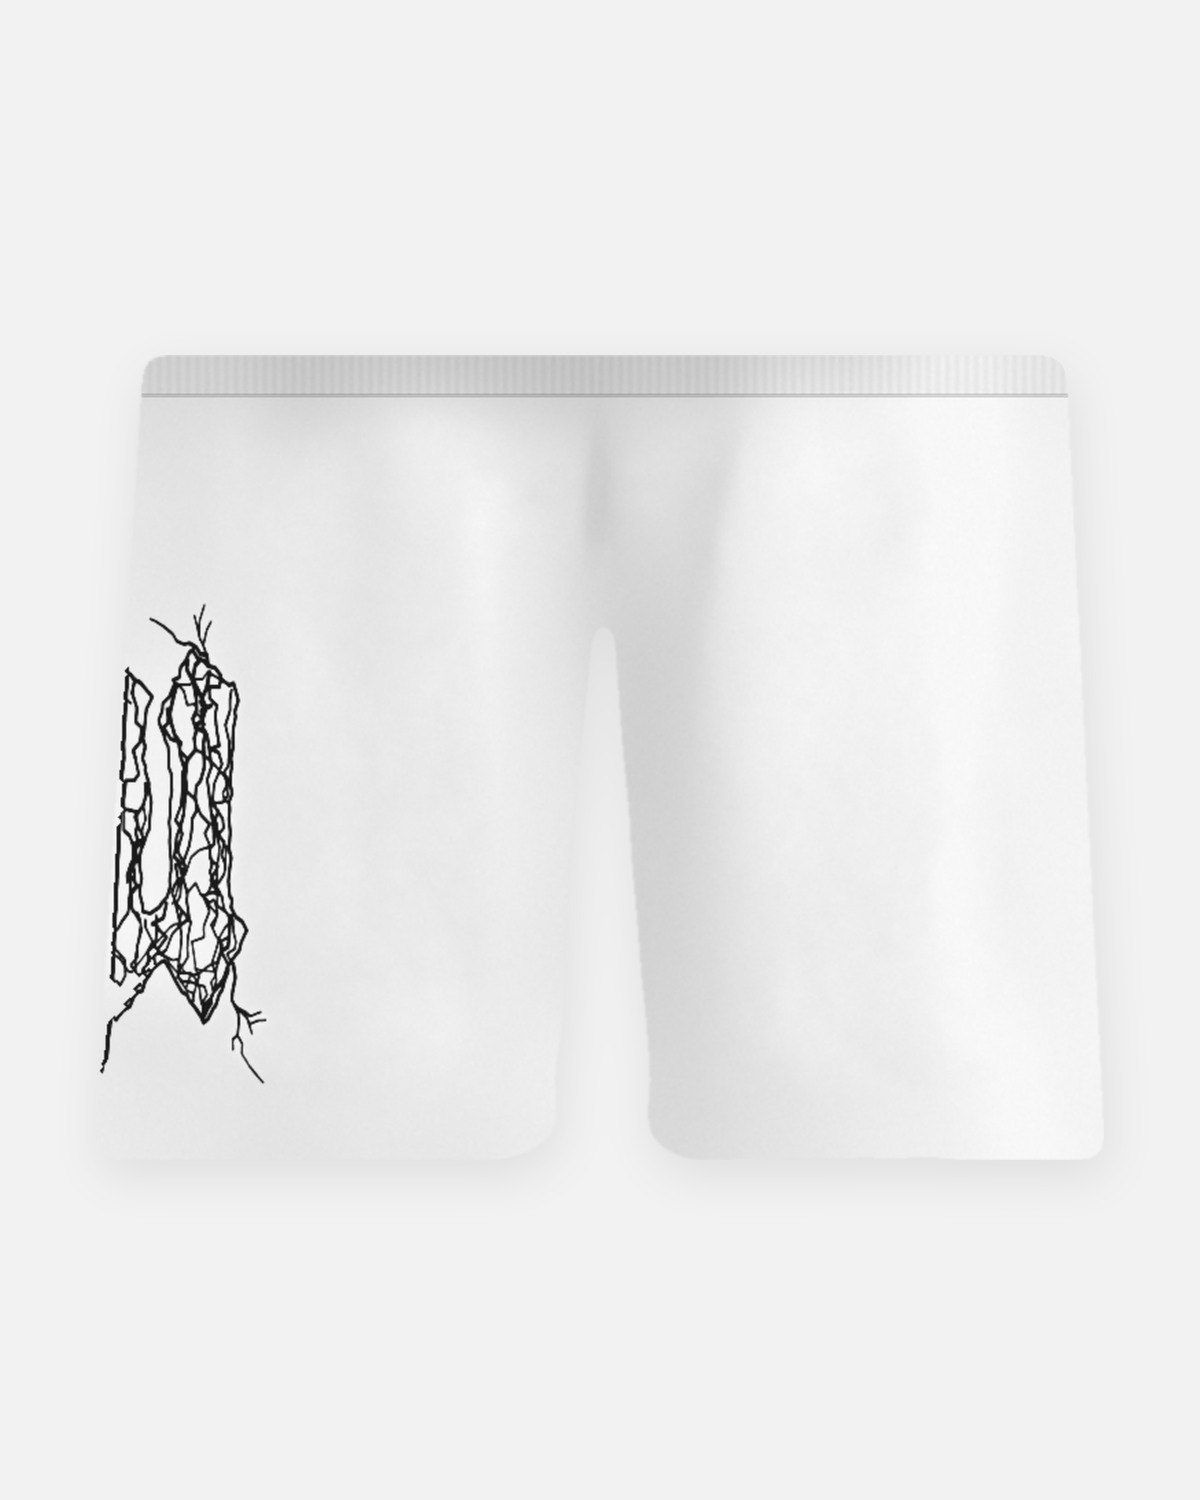
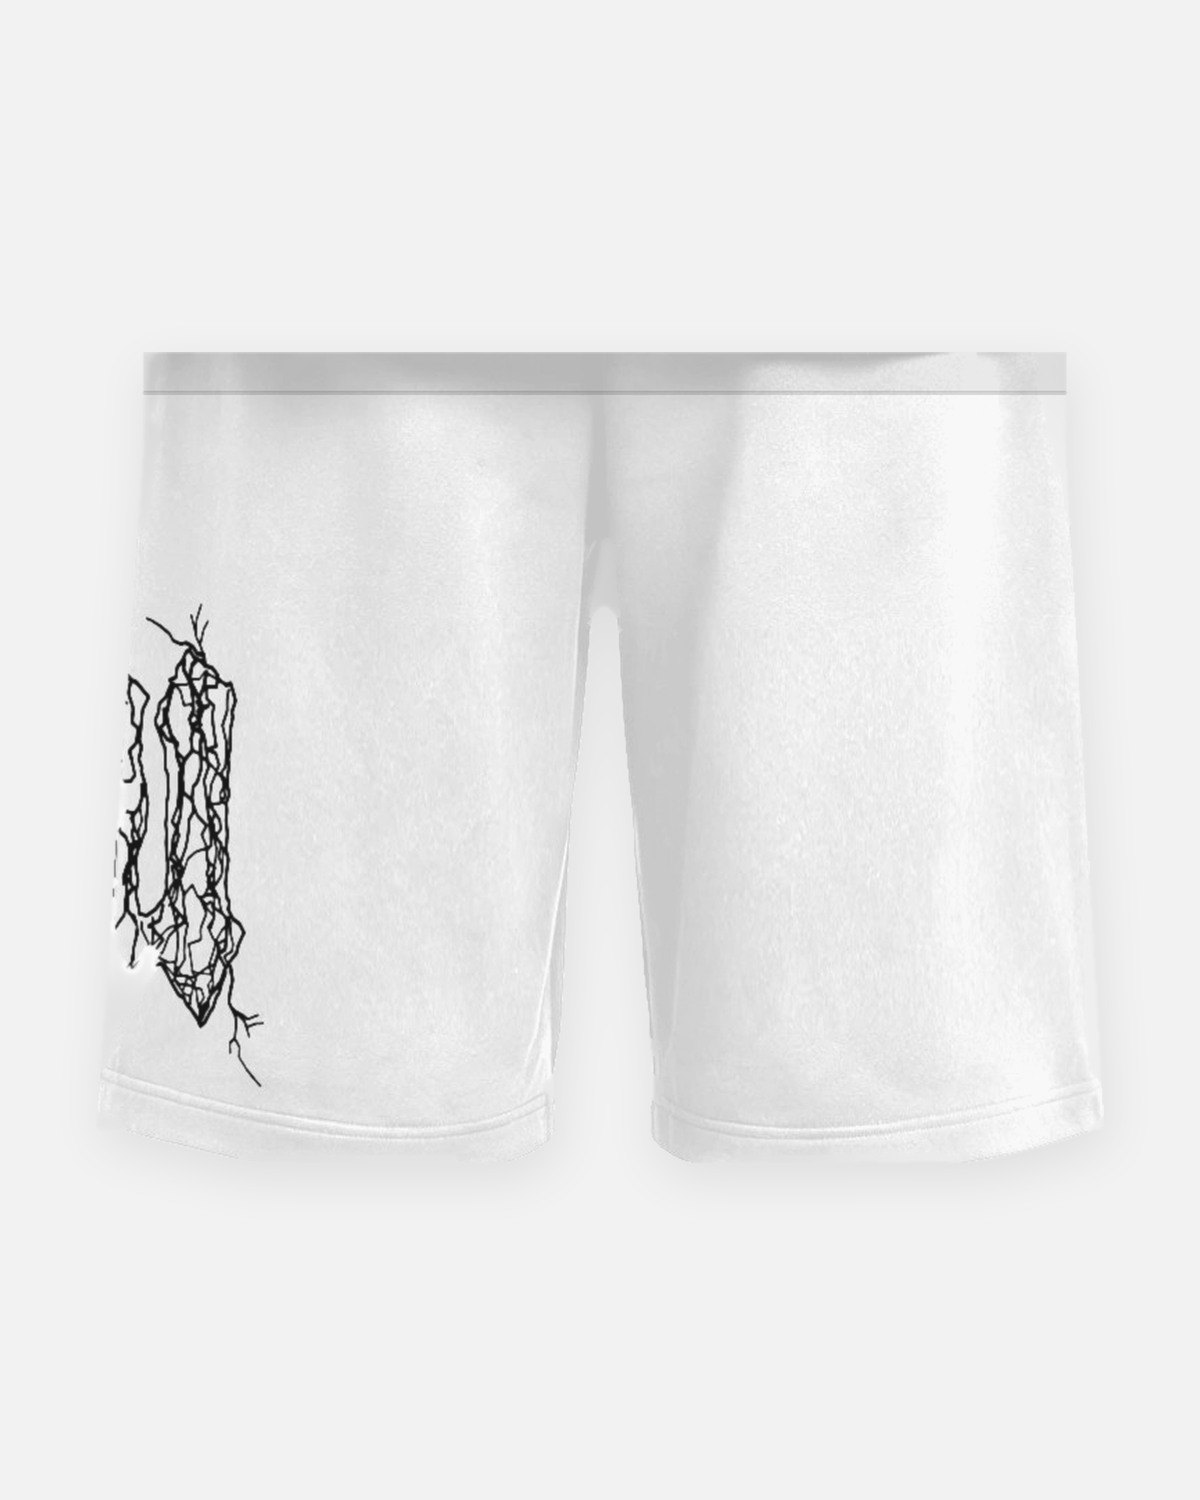
DROP 01: fotos con la forma real del conjunto puesto (sin el modelo) (#8)
Claude-Session: https://claude.ai/code/session_01FWWoBkYrTvxkMgAp4ivVVr

Changed region(s): [[0.0925, 0.3987, 0.2158, 0.736], [0.6167, 0.2147, 0.7708, 0.2453], [0.0617, 0.6747, 0.0925, 0.7053]]

diff --git a/CLAUDE.md b/CLAUDE.md
@@ -47,4 +47,4 @@ Tienda online de ropa (conjuntos remera + short) del mismo dueño que Nací Rein
 - 2026-11-16: **encabezado nuevo** (pedido del dueño, como el de Ditrens): tres rayitas a la izquierda (en compu van los links del menú), en el medio el logo "pu" de rayos (`img/logo-pu.webp`, versión de trazo grueso) girando sobre su eje con CSS (`puGira`, solo transform) y el carrito a la derecha. `.header` es una grilla de 3 columnas. Ya no dice "POWER UP" en texto arriba. Para que sea más fluida en celular: sin desenfoque (backdrop-filter) en carrito/modales y sin grano animado en la portada. Con "reducir movimiento" el logo queda quieto.
 - 2026-11-16: **tipografía de la marca definida por el dueño**: "power up" en minúscula con la letra gótica hecha de rayos (la misma del logo "pu"). Es una imagen, no una fuente: `img/marca-power-up.webp` (blanca, fondo transparente; pantalla de carga y footer) y `img/marca-power-up-portada.webp` (igual pero con borde negro difuminado, para que se lea sobre las fotos de la portada 3D; ahí el título ya no usa mix-blend difference ni el glitch). Cuando haya que escribir el nombre de la marca en grande, usar esta imagen y no Anton. Los textos comunes (menú, botones, cintas) siguen con las fuentes de siempre.
 - 2026-11-16: en la portada 3D la marca "power up" va **abajo**, debajo del anillo de prendas (el dueño pidió que no tape el carrusel): el lienzo 3D ocupa solo la parte de arriba de la portada (`--zona-marca` en `.hero--3d`, se funde abajo con una máscara) y `hero3d.js` mide el lienzo en vez de la portada entera.
-- 2026-11-19: **DROP 01 de POWER UP** (diseños propios, línea nueva `powerup` primera en `lineas`): ids 41–49. Conjunto / Remera / Short "PU Rayos" (41–43), "PU Monograma" (44–46), "Clothing Co." (47–49). Precios del dueño: remera $20.000, short $23.000, conjunto (remera + short) $35.000. Talles S–XXL (confirmados por el dueño). Colores negro y blanco (en blanco la estampa va en negro). Etiqueta "DROP 01". Fotos `img/pu-{remera|short|conjunto}-{rayos|monograma|clothing}-{negro|blanco}-{frente|espalda}.jpg`, estilo maniquí invisible sobre #f2f2f2: no son fotos reales; se redibujaron a partir de las fotos de modelos generadas para el drop (silueta suavizada, tela con los pliegues de la foto, estampa encima; el monograma se redibujó con el logo limpio). Cuando el dueño tenga fotos reales de las prendas, conviene reemplazarlas.
+- 2026-11-19: **DROP 01 de POWER UP** (diseños propios, línea nueva `powerup` primera en `lineas`): ids 41–49. Conjunto / Remera / Short "PU Rayos" (41–43), "PU Monograma" (44–46), "Clothing Co." (47–49). Precios del dueño: remera $20.000, short $23.000, conjunto (remera + short) $35.000. Talles S–XXL (confirmados por el dueño). Colores negro y blanco (en blanco la estampa va en negro). Etiqueta "DROP 01". Fotos `img/pu-{remera|short|conjunto}-{rayos|monograma|clothing}-{negro|blanco}-{frente|espalda}.jpg`, estilo maniquí invisible sobre #f2f2f2: no son fotos reales: salen de las fotos de modelos generadas para el drop, borrando al modelo (piel, pelo, piernas) y completando lo que tapaban las manos, con la forma real del conjunto puesto (pedido del dueño 2026-11-19: no le gustó la remera redibujada con forma rara). El monograma se redibuja con el logo limpio. Script: estampas/ghost4.py. Cuando el dueño tenga fotos reales de las prendas, conviene reemplazarlas.
